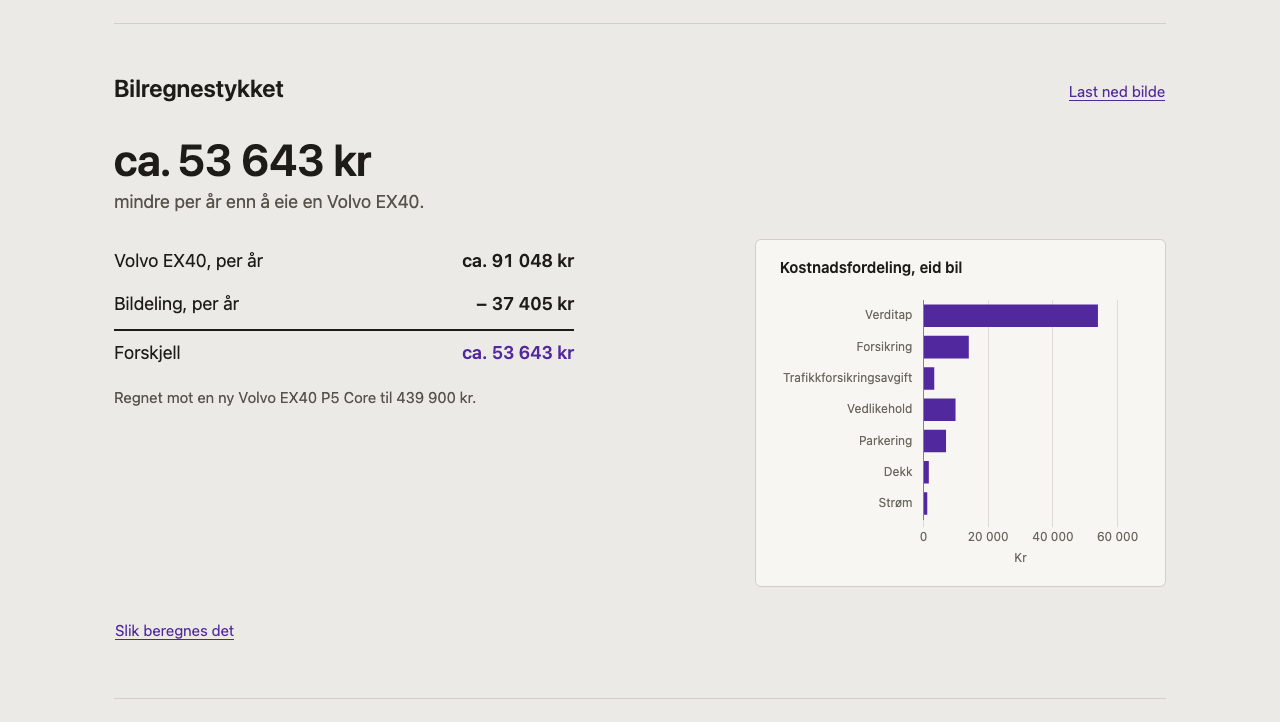
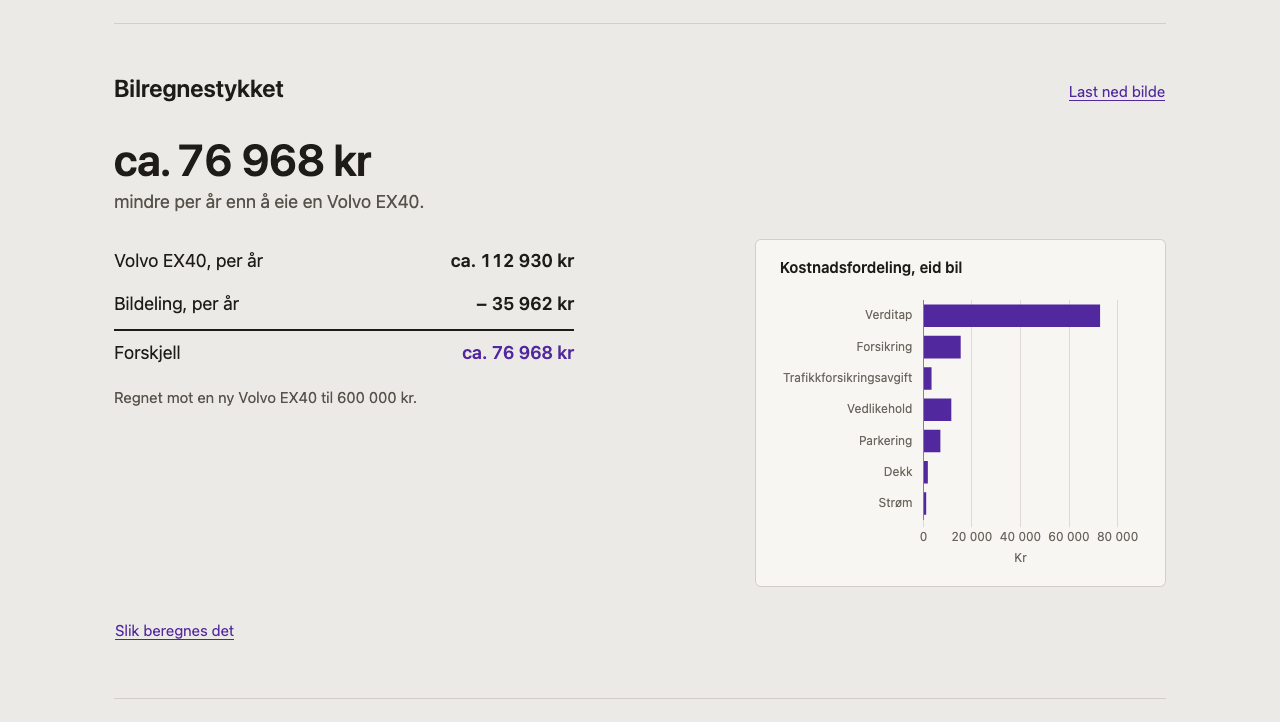
Skjermbildene og designskissen følger den nye referansebilen
Bilregnestykket og «Spart»-arket er tatt på nytt, så README ikke lenger
viser P5 Core til 439 900 kr. Skissen i design.md har fått tall i riktig
størrelsesorden og sier at de er oppdiktede. Sjekkdatoen i referansebil.js
er dagen prisen ble satt.

diff --git a/stats/lib/referansebil.js b/stats/lib/referansebil.js
@@ -45,7 +45,7 @@ export const SOURCES = {
 // for 10 000 km, interpolert med t = (600 000 − 550 000) / 200 000 = 0,25.
 // Datagrunnlaget er fra desember 2025 til april 2026.
 export const REFERENCE_CAR = {
-  checked: "2026-11-01",
+  checked: "2026-11-02",
 
   // EX40 er navnet på XC40 Recharge siden februar 2024.
   model: { value: "Volvo EX40", source: "volvoPrice", date: "2026-09-10" },

diff --git a/docs/design.md b/docs/design.md
@@ -166,16 +166,18 @@ brukt på bildeling i 2025, fordelt på 61 turer.
 
 ```
 Bilregnestykket                                   Last ned bilde
-ca. 38 000 kr
+ca. 96 000 kr
 mindre per år enn å eie en Volvo EX40.
 
-Volvo EX40, per år            ca. 52 200 kr
+Volvo EX40, per år           ca. 110 000 kr
 Bildeling, per år             − 14 200 kr
 ──────────────────────────────────────────
-Forskjell                     ca. 38 000 kr
+Forskjell                     ca. 96 000 kr
 Hvilken bil det regnes mot, i én setning.
 Slik beregnes det
 ```
+
+Tallene i skissene er oppdiktede og viser bare formen. Forutsetningene for bilen står i `stats/lib/referansebil.js`.
 
 Kostnader-hovedtallet står uten «ca.» fordi det er summen av faktiske beløp (`price.total`). «ca.» står bare foran estimater: Bilregnestykket, egen bil-kostnaden og CO₂-tallene.
 
